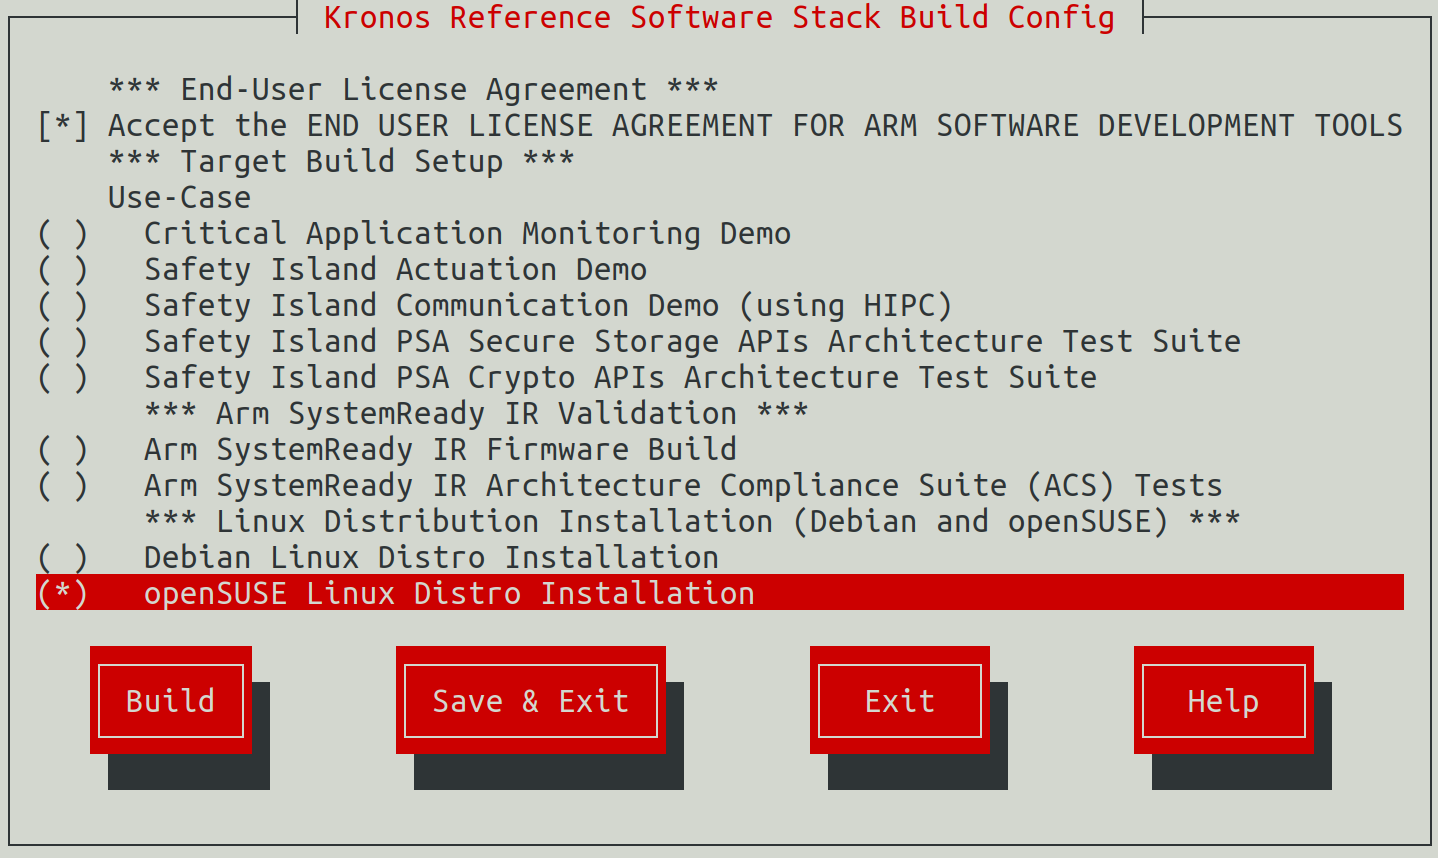
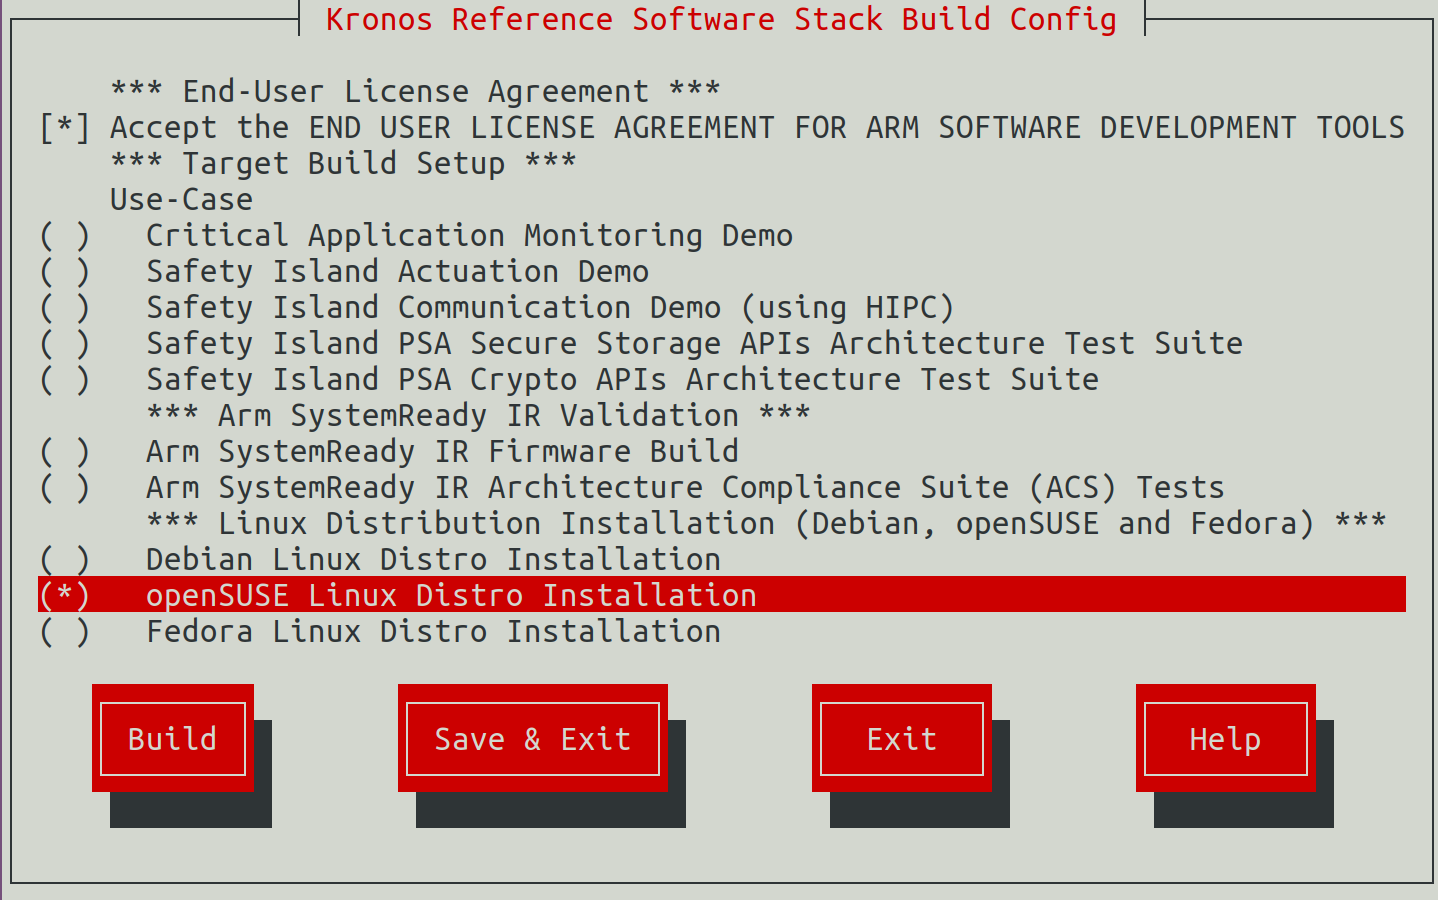
doc: Introduce Fedora Distro installation instructions
Update the document to reflect adding Fedora Server 39 Distro.

Changed region(s): [[0.0, 0.0, 1.0, 1.0]]

diff --git a/documentation/conf.py b/documentation/conf.py
@@ -257,6 +257,8 @@ rst_prolog = f"""
 .. _Data Distribution Service: https://www.dds-foundation.org/what-is-dds-3
 .. _Debian GNU/Linux Installation Guide: https://www.debian.org/releases/bookworm/arm64/
 .. _Debian Stable: https://www.debian.org/releases/stable/
+.. _Fedora Server: https://fedoraproject.org/server/download/
+.. _Fedora Installation Guide: https://docs.fedoraproject.org/en-US/fedora/latest/getting-started/
 .. _Device Tree specification: https://www.devicetree.org/
 .. _EBBR Specification - Required Platform Specific Elements: https://arm-software.github.io/ebbr/index.html#required-platform-specific-elements
 .. _EBBR Specification - UEFI Runtime Services: https://arm-software.github.io/ebbr/index.html#uefi-runtime-services

diff --git a/documentation/user_guide/reproduce.rst b/documentation/user_guide/reproduce.rst
@@ -2890,14 +2890,14 @@ ACS tests are set up and how they work in the Reference Software Stack.
 
 .. _user_guide_reproduce_arm_systemready_ir_linux:
 
-Linux Distribution Installation (Debian and openSUSE)
-=====================================================
+Linux Distribution Installation (Debian, openSUSE and Fedora)
+=============================================================
 
-The Arm SystemReady IR-aligned firmware must boot at least two unmodified
+The Arm SystemReady IR-aligned firmware must boot at least three unmodified
 generic UEFI distribution images from an ISO image.
 
-This Software Stack currently supports two Linux distributions: `Debian Stable`_
-and `openSUSE Leap`_.
+This Software Stack currently supports three Linux distributions: `Debian Stable`_,
+`openSUSE Leap`_ and `Fedora Server`_.
 
 .. note::
 
@@ -2933,7 +2933,7 @@ To run the configuration menu:
 To build the Arm SystemReady IR Linux distros installation tests:
 
 1. Select ``Debian Linux Distro Installation`` under
-   ``Linux Distribution Installation (Debian and openSUSE)`` from the
+   ``Linux Distribution Installation (Debian, openSUSE and Fedora)`` from the
    ``Use-Case`` menu.
 2. Select ``Build``.
 
@@ -3061,7 +3061,7 @@ To run the configuration menu:
 To build the Arm SystemReady IR Linux distros installation tests:
 
 1. Select ``openSUSE Linux Distro Installation`` under
-   ``Linux Distribution Installation (Debian and openSUSE)`` from the
+   ``Linux Distribution Installation (Debian, openSUSE and Fedora)`` from the
    ``Use-Case`` menu.
 2. Select ``Build``.
 
@@ -3142,6 +3142,200 @@ Select ``Installation`` to start the installation process.
          reboot: Power down
 
   Subsequently running the FVP will boot into openSUSE.
+
+Fedora
+------
+
+To install Fedora, you can refer to the `Fedora Installation Guide`_.
+
+Distro Installation Media Preparation
+^^^^^^^^^^^^^^^^^^^^^^^^^^^^^^^^^^^^^
+
+To run the configuration menu:
+
+.. code-block:: text
+
+  kas menu kronos/Kconfig
+
+To build the Arm SystemReady IR Linux distros installation tests:
+
+1. Select ``Fedora Linux Distro Installation`` under
+   ``Linux Distribution Installation (Debian, openSUSE and Fedora)`` from the
+   ``Use-Case`` menu.
+2. Select ``Build``.
+
+.. image:: ../images/kronos_reference_stack_build_config_sr_distro_fedora.*
+   :align: center
+   :width: 60 %
+   :alt: Kronos Reference Software Stack Build Configuration Menu - Fedora Linux Distro Installation
+
+|
+
+Distro Installation
+^^^^^^^^^^^^^^^^^^^
+
+Run the following command to start the installation:
+
+.. code-block:: text
+
+  kas shell -c "../layers/meta-arm/scripts/runfvp -t tmux --verbose"
+
+The whole process of installing Fedora will probably take about 24 hours. The
+install process begins when you see the following:
+
+    .. image:: ../images/sr-ir-linux-distro-fedora-install-grub.*
+       :align: center
+       :width: 60 %
+       :alt: Grub Install Options Menu - Fedora Linux Distro Installation
+
+Select ``Install Fedora 39`` to start the installation process.
+
+Here are some tips for installing Fedora:
+
+1. It will take a few minutes for GRUB to load the installer, kernel and initrd.
+2. Once the installer has started, enter ``2`` to choose ``Use text mode``.
+
+   .. code-block:: console
+
+      Starting installer, one moment...
+      anaconda 38.23.4-2.fc38 for Fedora 38 started.
+       * installation log files are stored in /tmp during the installation
+       * shell is available on TTY2 and in second TMUX pane (ctrl+b, then press 2)
+       * when reporting a bug add logs from /tmp as separate text/plain attachments
+
+      X or window manager startup failed, falling back to text mode.
+      ================================================================================
+      ================================================================================
+      X was unable to start on your machine. Would you like to start VNC to connect to
+      this computer from another computer and perform a graphical installation or
+      continue with a text mode installation?
+
+      1) Start VNC
+      2) Use text mode
+
+      Please make a selection from the above ['c' to continue, 'h' to help, 'q' to
+      quit, 'r' to refresh]: 2
+
+3. When reaching the installation menu, you will see several items marked as ``!``
+   which indicates that the item needs to be configured before proceeding.
+
+   .. code-block:: console
+
+      ================================================================================
+      ================================================================================
+      Installation
+
+      1) [x] Language settings                 2) [x] Time settings
+             (English (United States))                (America/Chicago timezone)
+      3) [!] Installation source               4) [!] Software selection
+             (Setting up installation                 (Processing...)
+             source...)
+      5) [!] Installation Destination          6) [x] Network configuration
+             (Processing...)                          (Connected: eth0)
+      7) [!] Root password                     8) [!] User creation
+             (Root account is disabled)               (No user will be created)
+
+      Please make a selection from the above ['b' to begin installation, 'h' to help,
+      'q' to quit, 'r' to refresh]:
+
+   For ``3) [!] Installation source``, enter ``3``, then ``1`` to select
+   ``CD/DVD``.
+
+   .. code-block:: console
+
+      ================================================================================
+      ================================================================================
+      Installation source
+
+      Choose an installation source type.
+      1) CD/DVD
+      2) local ISO file
+      3) Network
+
+      Please make a selection from the above ['c' to continue, 'h' to help, 'q' to
+      quit, 'r' to refresh]: 1
+
+   For ``4) [!] Software selection``, enter ``4``, then ``c`` to continue.
+
+   For ``5) [!] Installation Destination``, enter ``5``, then ``c`` to select
+   the default options.
+
+   For ``6) [!] Network configuration``, it will automatically change to ``x``.
+
+   For ``7) [!] Root password``, follow the prompts to enter the password and
+   confirm.
+
+   After entering root password, ``8) [ ] User creation`` becomes optional and
+   can be skipped.
+
+   The final configuration should now appear as follows:
+
+   .. code-block:: console
+
+      ================================================================================
+      ================================================================================
+      Installation
+
+      1) [x] Language settings                 2) [x] Time settings
+             (English (United States))                (America/Chicago timezone)
+      3) [x] Installation source               4) [x] Software selection
+             (Local media)                            (Fedora Server Edition)
+      5) [x] Installation Destination          6) [x] Network configuration
+             (Automatic partitioning                  (Connected: eth0)
+             selected)
+      7) [x] Root password                     8) [ ] User creation
+             (Root password is set)                   (No user will be created)
+
+      Please make a selection from the above ['b' to begin installation, 'h' to help,
+      'q' to quit, 'r' to refresh]: 
+
+   Now enter ``b`` to start the installation.
+
+4. The installer is expected to stay at ``Configuring kernel-core.aarch64``
+   for several hours. The installer will then verify the installed packages
+   and continue to install the boot loader.
+5. The following error is expected while installing the boot loader. Ignore the
+   error by responding ``yes`` and continue.
+
+   .. code-block:: console
+
+      Installing boot loader
+      ================================================================================
+      ================================================================================
+      Question
+
+      The following error occurred while installing the boot loader. The system will
+      not be bootable. Would you like to ignore this and continue with installation?
+
+      Failed to set new efi boot target. This is most likely a kernel or firmware bug.
+
+      Please respond 'yes' or 'no': yes
+
+      [anaconda]1:main* 2:shell  3:log  4:storage-log >Switch tab: Alt+Tab | Help: F1
+
+* Log in
+
+  When the installation reaches the final ``Finishing the installation``
+  phase, you will need to wait some time to finish the remaining tasks,
+  and then it will automatically reboot into the installed OS. You can log into
+  the Linux shell with the user created during installation.
+
+* Terminate the FVP
+
+  To shut down the FVP and terminate the emulation automatically, log into the
+  Linux shell as the root user then run the following command.
+
+      .. code-block:: text
+
+         shutdown now
+
+  The below message indicates the shutdown process is complete.
+
+      .. code-block:: text
+
+         reboot: Power down
+
+  Subsequently running the FVP will boot into Fedora.
 
 .. _user_guide_reproduce_secure_firmware_update:
 

diff --git a/documentation/design/systemready_ir.rst b/documentation/design/systemready_ir.rst
@@ -126,11 +126,6 @@ non-alignments:
 
   * Tests are not compatible with certain devices in the RD-Kronos model.
 
-* Distro installation
-
-  * Only two Linux distro installations are performed (Debian and openSUSE),
-    rather than the requisite three.
-
 ************************
 Arm SystemReady IR Tests
 ************************
@@ -165,7 +160,7 @@ To run the tests, refer to :ref:`user_guide_reproduce_sr_ir_acs`.
 Linux Distributions Installation Tests
 ======================================
 
-The Arm SystemReady IR requires that at least two Linux distros must be able
+The Arm SystemReady IR requires that at least three Linux distros must be able
 to boot and install using the UEFI boot flow.
 
 Recipes for testing the installation of Linux distributions are provided under

diff --git a/documentation/overview.rst b/documentation/overview.rst
@@ -285,8 +285,8 @@ off-the-shelf operating systems and hypervisors. Refer to
 Linux Distribution Installation
 ===============================
 
-Demonstrates the installation of two unmodified generic UEFI distribution
-images, Debian and openSUSE, fulfilling Arm SystemReady requirements.
+Demonstrates the installation of three unmodified generic UEFI distribution
+images, Debian, openSUSE and Fedora, fulfilling Arm SystemReady requirements.
 
 Secure Firmware Update
 ======================

diff --git a/documentation/releasenotes.rst b/documentation/releasenotes.rst
@@ -21,6 +21,7 @@ Changed
 * Assemble the firmware images using genimage from the meta-ptx Yocto layer instead of wks/wic images
 * Updated support from openSUSE 15.4 to 15.5
 * Updated support from Debian 11.7 to 12.4
+* Added Fedora 39.1.5 distribution to comply with the SystemReady IR v2.1 requirements.
 * Added compiler tuning for Cortex-R82 to the Zephyr toolchain
 
 ****
